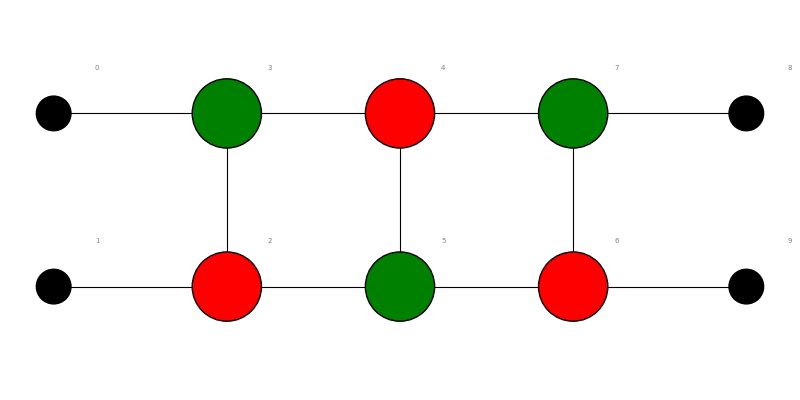
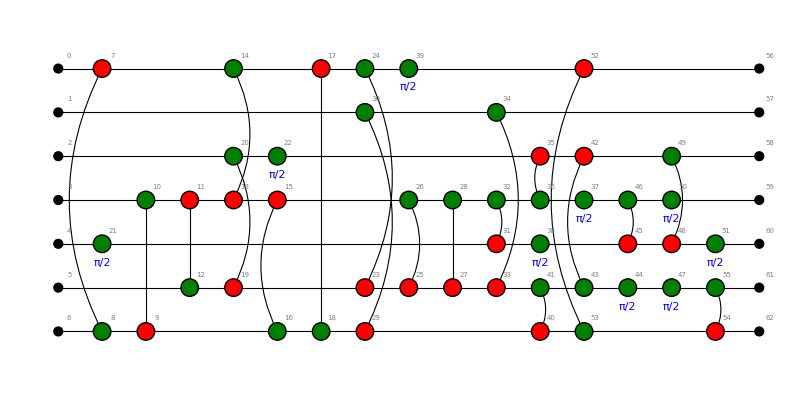
bun

diff --git a/mansikka_example.py b/mansikka_example.py
@@ -14,8 +14,8 @@ baseline_pipeline = McSimPipeline(name="baseline")
 mansikka_extractor = MansikkaExtractor(params={"m": 2, "nr_iter": 6})
 mansikka_pipeline = McSimPipeline(name="mansikka", extractor=mansikka_extractor)
 
-qubits = 2
-depth = 3
+qubits = 7
+depth = 29
 
 # Force seed
 random.seed(1)
@@ -33,6 +33,12 @@ print("Baseline matrix \n", matrix_0)
 print("        Mansikka\n", matrix_1)
 print("Equals:         \n", np.equal(matrix_0, matrix_1))
 
+s=0
+for i in range(len(matrix_0)):
+    for j in range(len(matrix_0)):
+        s=s+(matrix_0[i][j]-matrix_1[i][j])**2
+
+print("Dif:",s)
 # for state in range(2**qubits):
 #     print("##########\n state:{} #######".format(state))
 #     initial_state = np.zeros((2 ** qubits,))
@@ -54,7 +60,6 @@ print("\n\n Mansikka Done !")
 
 def test_trewidth(circuit):
     zx_graph = circuit.to_graph()
-    print("@@@@@@@@")
     pyzx.draw_matplotlib(zx_graph, labels=True, figsize=(8, 2), h_edge_draw='blue', show_scalar=False, rows=None).savefig("circuit.png")
 
     example_graph = MansikkaGraph([k for k in zx_graph.vertices()], zx_graph.edge_set().copy())

diff --git a/mcsim/mcsim_tensor.py b/mcsim/mcsim_tensor.py
@@ -58,6 +58,10 @@ def mcsim_tensorfy(pyzx_graph, contraction_edge_list, preserve_scalar: bool = Tr
 
         ## Stop
         if len(contraction_ids)==pyzx_graph.num_outputs()+pyzx_graph.num_inputs():
+            if (len(mansikka_node_map.keys()) > pyzx_graph.num_outputs()+pyzx_graph.num_inputs()+1):
+                raise Exception(
+                    "Circuit is not conected!")
+                return 1
             tensor=mansikka_output_node.tensor
             if preserve_scalar:
                 tensor *= pyzx_graph.scalar.to_number()
